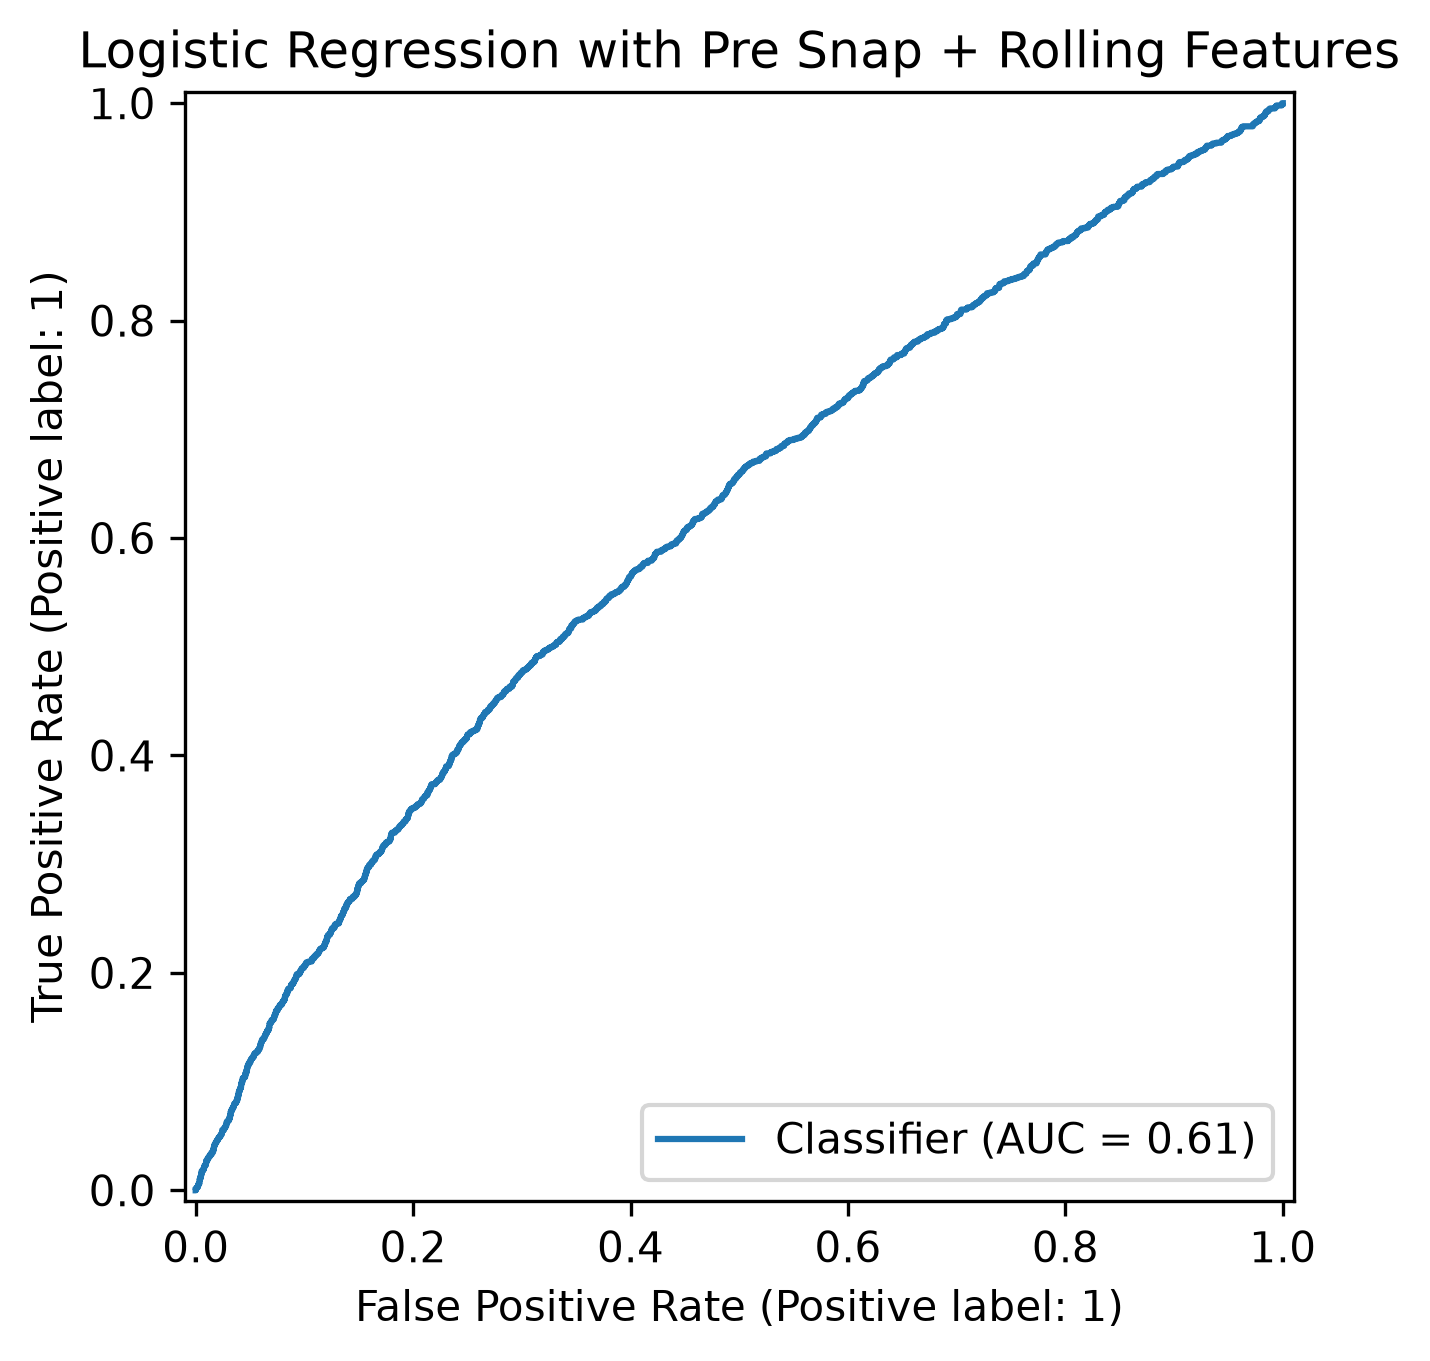
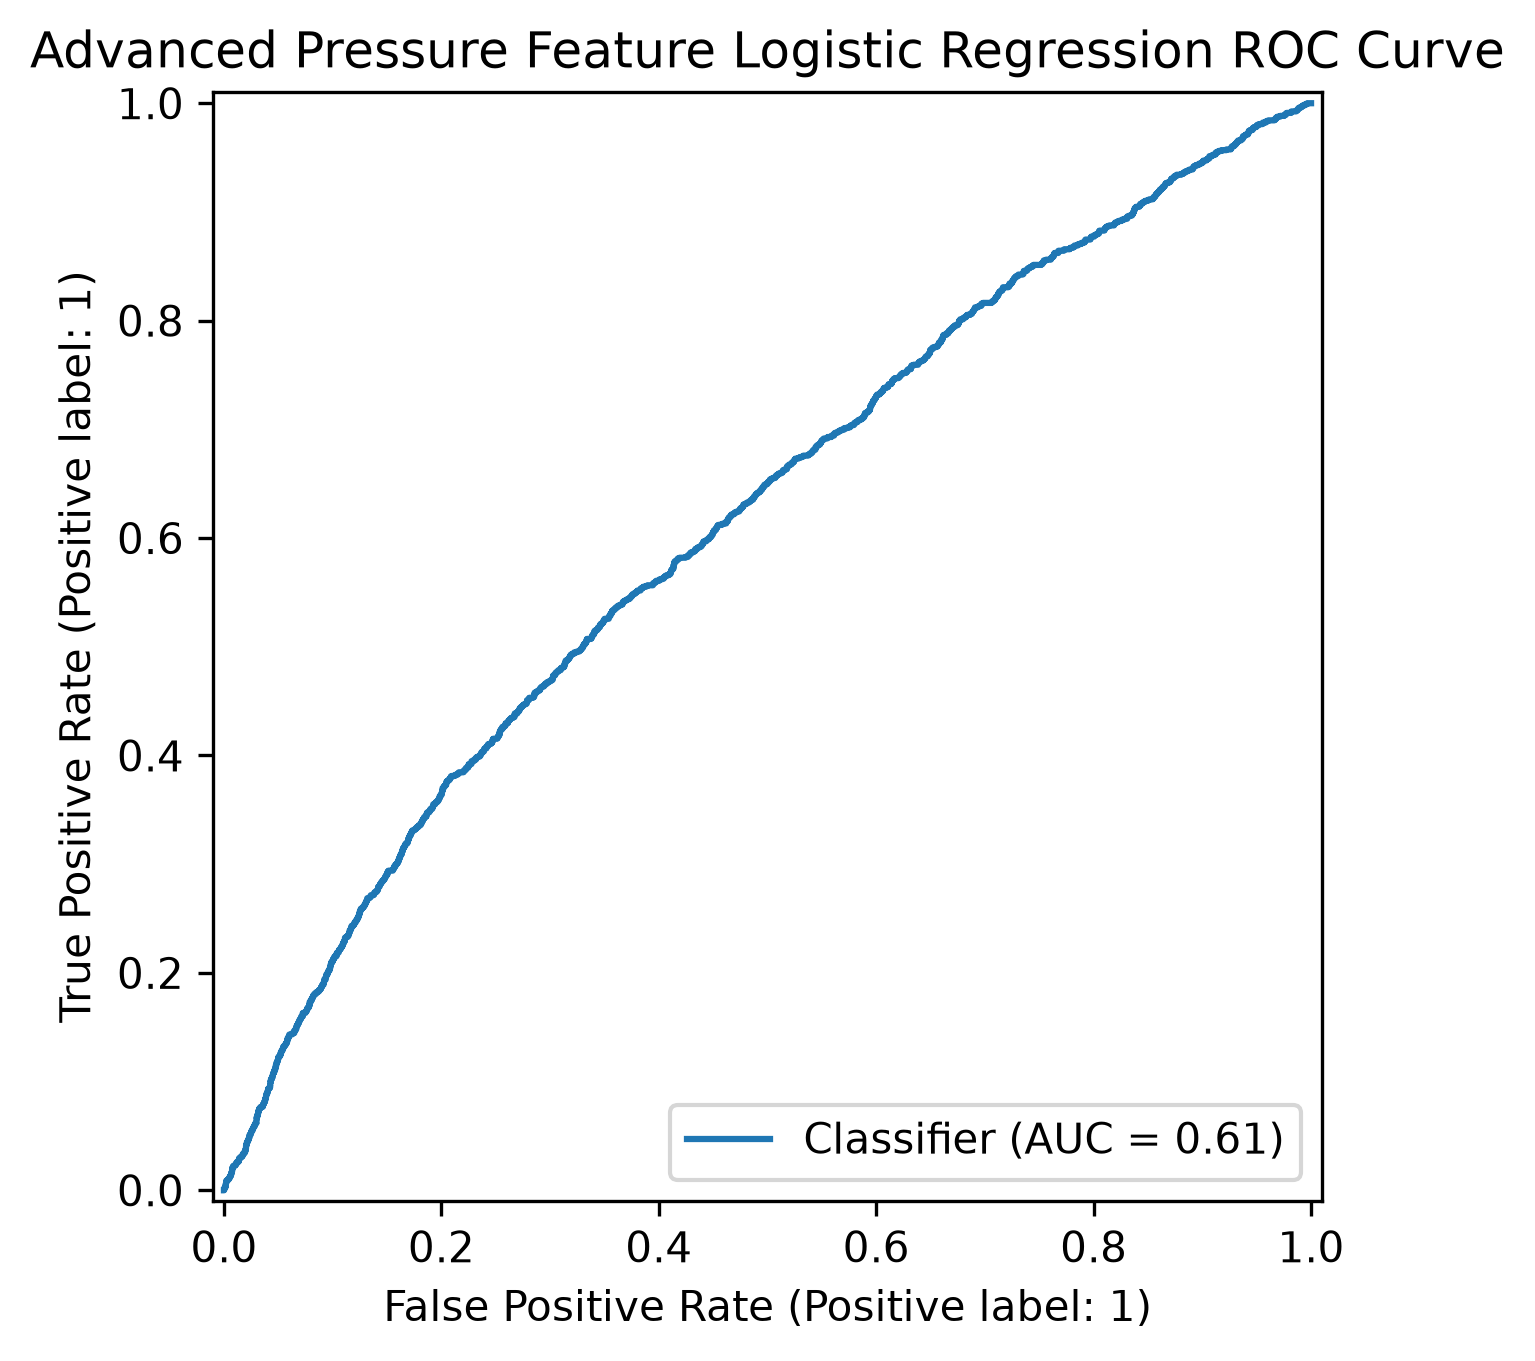
Section 16

diff --git a/README.md b/README.md
@@ -172,6 +172,33 @@ Future iterations will evaluate:
 - Feature importance analysis
 - Alternative machine learning models
 
+## Advanced Pressure Metrics
+
+Weekly advanced quarterback/offensive pressure metrics and defensive pressure metrics were added to the modeling dataset.
+
+Features included:
+
+- Previous week times sacked
+- Previous week times pressured
+- Previous week times hurried
+- Previous week times hit
+- Previous week pressure percentage
+- Previous week defensive sacks
+- Previous week defensive pressures
+- Previous week defensive QB hits
+
+All advanced statistics were shifted by one week to avoid data leakage and better simulate what would be known before a game.
+
+## Current Model Progression
+Model | Features | ROC-AUC
+
+- Logistic Regression | Game state features | AUC = 0.584
+- Logistic Regression | Game state features + team/QB categorical features | AUC = .597
+- Logistic Regression | Historical Sack Rate Features | AUC = .605
+- Logistic Regression | Pre-Snap + Rolling Features | AUC =	0.611
+- Logistic Regression | | Advanced Pressure Features | AUC = 0.614 
+
+Current best model: 0.614 ROC-AUC
 
 ## Author
 